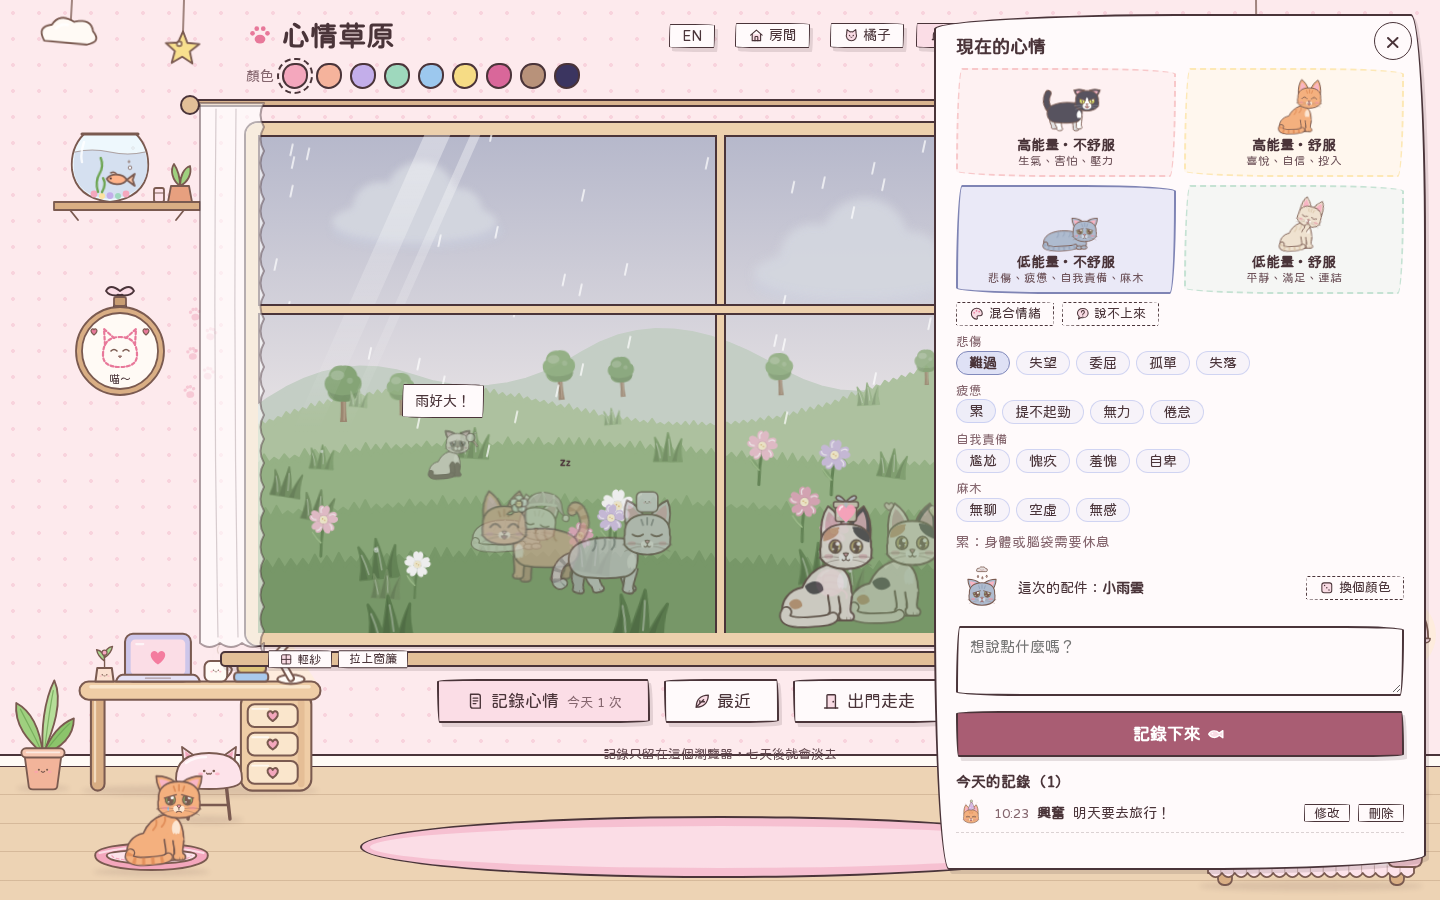
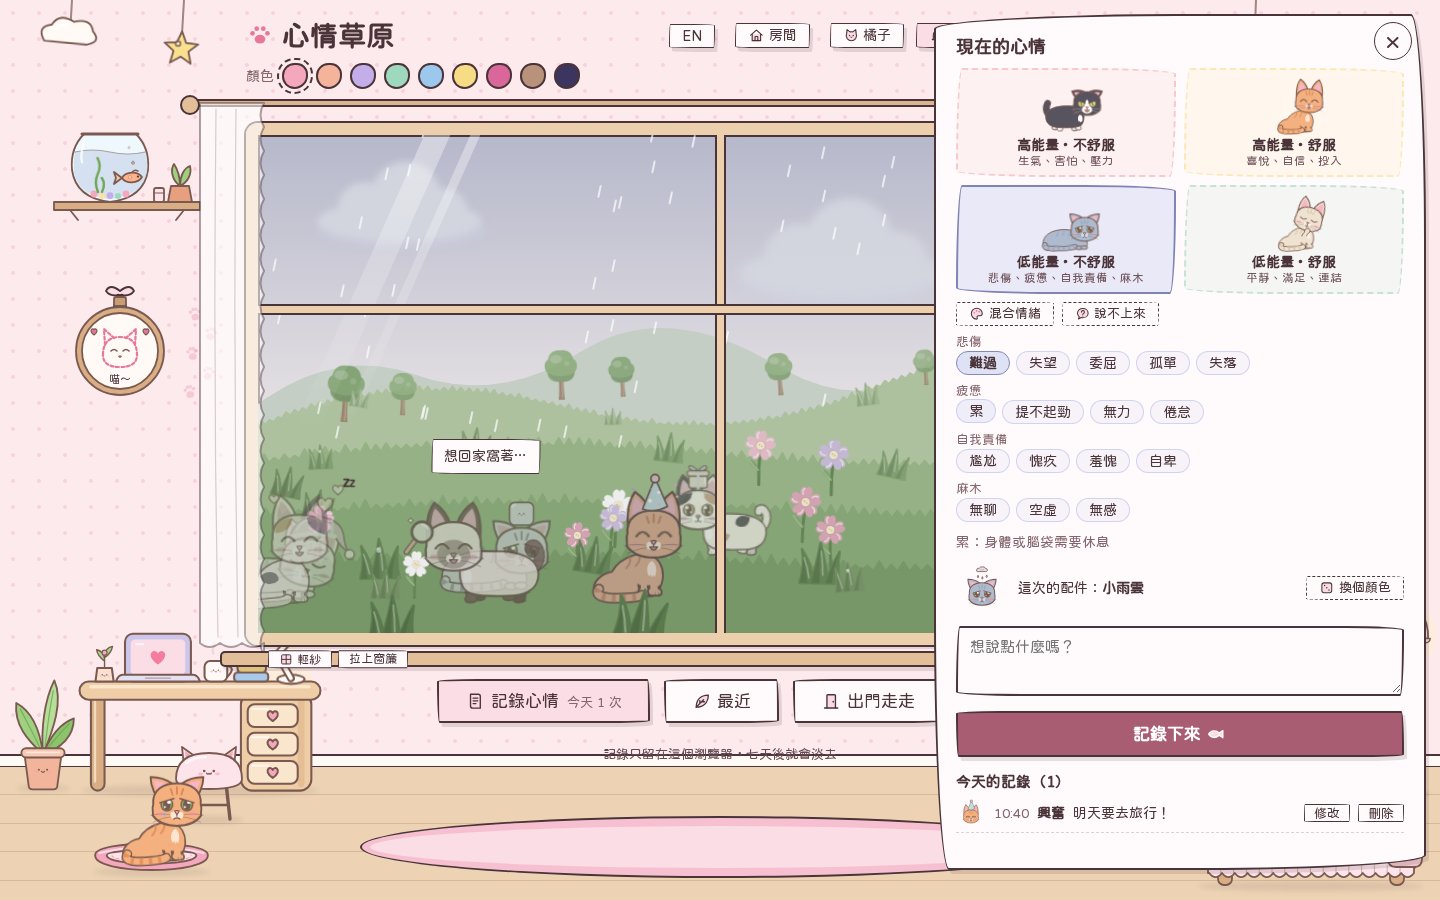
style: change to kitten

diff --git a/index.html b/index.html
@@ -327,12 +327,13 @@
   .cat.walk .leg.b { animation-delay: calc(var(--step, .36s) * -1); }
   .cat.walk .hopper-inner { animation: bob var(--step, .36s) ease-in-out infinite alternate; }
   /* 0%：腳在前面踩地 → 55%：推到後面 → 抬起來往前跨 */
+  /* 短短的腳：擺動小一點、抬腳低一點 */
   @keyframes step {
-    0% { transform: rotate(-15deg); }
-    55% { transform: rotate(15deg); }
-    72% { transform: rotate(3deg) translateY(-3px); }
-    88% { transform: rotate(-12deg) translateY(-2px); }
-    100% { transform: rotate(-15deg); }
+    0% { transform: rotate(-11deg); }
+    55% { transform: rotate(11deg); }
+    72% { transform: rotate(2deg) translateY(-2px); }
+    88% { transform: rotate(-9deg) translateY(-1.4px); }
+    100% { transform: rotate(-11deg); }
   }
   @keyframes bob { to { transform: translateY(-1.5px); } }
   .cat .eyes { transform-box: fill-box; transform-origin: center; animation: blink 5s infinite; }
@@ -355,8 +356,8 @@
   .cat.loaf .p-loaf, .cat.sleep .p-loaf, .cat.roll .p-loaf { opacity: 1; }
   .cat .head { transition: transform .35s; transform-origin: 100px 42px; }
   .cat.sit .head { transform: translate(-10px, -6px); }
-  .cat.loaf .head, .cat.roll .head { transform: translate(-4px, 22px); }
-  .cat.sleep .head { transform: translate(-4px, 25px) rotate(10deg); }
+  .cat.loaf .head, .cat.roll .head { transform: translate(-4px, 14px); }
+  .cat.sleep .head { transform: translate(-4px, 18px) rotate(10deg); }
   .cat.groom .head { animation: lick .45s ease-in-out infinite alternate; }
   @keyframes lick { from { transform: translate(-9px, -3px) rotate(15deg); } to { transform: translate(-9px, -1px) rotate(21deg); } }
   .cat.groom .lick-paw { display: inline; animation: paw .45s ease-in-out infinite alternate; }
@@ -1548,12 +1549,14 @@ const FAMILY_COAT = { joy: "happy", confidence: "goldie", engagement: "siamese",
   sadness: "sad", exhaustion: "tired", self_conscious: "graywhite", numbness: "silver", anger: "angry", fear: "tortie", stress: "brown", unsure: "black" };
 
 // 頭的位置（各個姿勢）：x, y 位移與旋轉角度（以頭中心 100,42 為軸）
+// 胖胖版的頭：以下巴 (100, 58) 為中心放大 1.16 倍，再往下 7
+const CHUB_HEAD = "translate(0 7) translate(100 58) scale(1.16) translate(-100 -58)";
 const HEAD_POSE = {
   stand: { x: 0, y: 0, r: 0 },
   sit:   { x: -10, y: -6, r: 0 },
   groom: { x: -9, y: -3, r: 18 },
-  loaf:  { x: -4, y: 22, r: 0 },
-  sleep: { x: -4, y: 25, r: 10 },
+  loaf:  { x: -4, y: 14, r: 0 },
+  sleep: { x: -4, y: 18, r: 10 },
 };
 // 耳朵：難過會垂下、生氣會壓平（飛機耳）
 const EARS = { happy: [0, 0], calm: [0, 0], tired: [12, 1], sad: [36, 5], angry: [52, 7], anxious: [16, 1] };
@@ -1656,40 +1659,35 @@ function tail(d, m, puff) {
 // 胸前的一撮蓬毛
 const fluff = (x, y, color) => `<path d="M${x} ${y} C${x - 4.5} ${y + 2} ${x - 5} ${y + 9} ${x - 2.5} ${y + 13} L${x - 1} ${y + 11.5} L${x} ${y + 14} L${x + 1.2} ${y + 11.8} L${x + 2.5} ${y + 13.5} C${x + 4.5} ${y + 9} ${x + 4} ${y + 2} ${x} ${y}Z" fill="${color}" stroke="none"/>`;
 
+// 胖胖短腳：身體圓一點、放低一點，腿短短的
 function poseArt(mood, pose, coat = mood) {
   const m = coatOf(coat), tailType = MOODS[mood].tail;
-  const legC = m.point || m.paw || m.fur;
-  const far = shade(legC);
-  const near = legC;
-  const puff = tailType === "puff";
+  const legC = m.point || m.paw || m.fur, far = shade(legC), near = legC, puff = tailType === "puff";
   const stripes = d => m.stripe !== m.fur ? `<path d="${d}" stroke="${m.stripe}" stroke-width="2" fill="none" opacity=".85"/>` : "";
   if (pose === "stand") {
-    const tailD = { up: "M39 58 C27 54 22 43 25 32 C26.5 26 32 24.5 33 30", low: "M38 61 C29 65 26 74 28.5 83 C29.5 87 33 88 34.5 85",
-                    puff: "M39 58 C29 51 27 41 29.5 31" }[tailType];
-    return `<g class="tail" style="transform-origin:39px 59px">${tail(tailD, m, puff)}</g>
-      ${paw(45, 67, far, "leg b", "back")}${paw(80, 68, far, "leg a")}
-      ${paw(53, 68, near, "leg a", "back")}${paw(86.5, 70, near, "leg b")}
-      <path d="M92 60 C92 50 85 45 75 45 C64 44 54 45 46 48 C36 51 32 59 34 67 C36 75 43 78.5 52 78.5 C62 79.5 72 79.5 82 77.5 C90 75.5 92 68 92 60Z" fill="${m.fur}"/>
-      ${m.patches ? `<path d="M50 48 C57 45.5 64 47.5 63 55 C57 60 50 58 50 48Z" fill="${m.patches[1]}" stroke="none"/><path d="M68 64 C75 61 81 66 78.5 72 C73 74 69 70 68 64Z" fill="${m.patches[0]}" stroke="none"/>` : ""}
-      ${stripes("M56 46.5 C57 50.5 56 53.5 54 55.5 M64 45.5 C65 49.5 64 52.5 62 54.5 M72 45.5 C73 49.5 72 52.5 70 54.5")}
-      ${fluff(87, 58, m.chest)}`;
+    const tailD = { up: "M37 66 C29 63 26 55 28.5 48.5 C30 45 34 45 34.5 48.5", low: "M36 70 C29 73 27.5 80 29.5 86 C30.5 89 33.5 89.6 35 87", puff: "M37 66 C30 61 28.5 54 30.5 47" }[tailType];
+    return `<g class="tail" style="transform-origin:37px 67px">${tail(tailD, m, puff)}</g>
+      ${paw(46, 80, far, "leg b", "back")}${paw(78, 80, far, "leg a")}
+      ${paw(54, 81, near, "leg a", "back")}${paw(85, 81.5, near, "leg b")}
+      <path d="M95 67 C95 55 87 50.5 75 50.5 C62 50 50 50.5 42 54.5 C32 59 30 67 32 74 C34 82 43 86.5 56 86.6 C66 87 77 87 85 85 C93 83 95 76 95 67Z" fill="${m.fur}"/>
+      ${m.patches ? `<path d="M48 54 C56 51 63 53 62 61 C56 66 48 64 48 54Z" fill="${m.patches[1]}" stroke="none"/><path d="M68 71 C75 68 82 73 79.5 79 C74 81 69 77 68 71Z" fill="${m.patches[0]}" stroke="none"/>` : ""}
+      ${stripes("M55 52 C56 56 55 59 53 61 M63 51 C64 55 63 58 61 60 M71 51 C72 55 71 58 69 60")}
+      ${fluff(89, 64, m.chest)}`;
   }
   if (pose === "sit") {
-    return `<path d="M87 92 C94 86 96.5 72 92.5 60 C89.5 52 82 48 75 50 C66 53 60 60 57 67 C47 69 41 77 42 85 C43 91 50 93 58 92 Z" fill="${m.fur}"/>
-      ${m.patches ? `<path d="M59 66 C65 60 73 62 73 69 C68 74 61 73 59 66Z" fill="${m.patches[1]}" stroke="none"/><path d="M47 79 C50 74 57 75 57 81 C53 85 48 84 47 79Z" fill="${m.patches[0]}" stroke="none"/>` : ""}
-      ${stripes("M69 55 C70 59 68 62 66 64 M77 52 C78 56 76 59 74 61")}
-      ${sitPaw(81.5, 66, near)}
-      ${fluff(87.5, 55, m.chest)}
-      <g class="stay-paw">${sitPaw(89.5, 67, near)}</g>
-      <g class="tail" style="transform-origin:45px 86px">${tail("M45 85.5 C40 93 52 94.6 66 94 C74 93.8 78 93.4 80 91.5", m, puff)}</g>`;
+    return `<path d="M89 92.5 C98 87 100 73 95 64.5 C91 58 83 55.5 75 57.5 C65 60.5 58 66 55 72 C45 74 39 81 40 87 C41 92 48 93.6 58 93 Z" fill="${m.fur}"/>
+      ${m.patches ? `<path d="M58 71 C64 65 73 67 73 74 C68 79 60 78 58 71Z" fill="${m.patches[1]}" stroke="none"/><path d="M46 82 C49 77 56 78 56 84 C52 88 47 87 46 82Z" fill="${m.patches[0]}" stroke="none"/>` : ""}
+      ${stripes("M70 60 C71 64 69 67 67 69 M78 58 C79 62 77 65 75 67")}
+      ${sitPaw(82, 76, near)}
+      ${fluff(88.5, 63, m.chest)}
+      <g class="stay-paw">${sitPaw(90, 77, near)}</g>
+      <g class="tail" style="transform-origin:44px 87px">${tail("M44 86.5 C39 93.4 52 94.8 66 94.2 C74 94 78 93.6 80 92", m, puff)}</g>`;
   }
-  // 趴著（母雞蹲、睡覺）
-  return `<path d="M28 85 C26 72 40 63 62 63 C82 63 98 70 99 83 C99.5 89 95 92.5 88 92.5 L38 92.5 C31 92.5 28 90 28 85Z" fill="${m.fur}"/>
-    ${m.patches ? `<path d="M44 67 C52 63 60 66 57 74 C51 77 45 74 44 67Z" fill="${m.patches[1]}" stroke="none"/><path d="M70 68 C78 66 85 71 81 78 C75 79 71 75 70 68Z" fill="${m.patches[0]}" stroke="none"/>` : ""}
-    ${stripes("M52 65 C53 69 52 72 50 74 M62 63.5 C63 67 62 70 60 72 M72 64.5 C73 68 72 71 70 73")}
-    <g class="tail" style="transform-origin:31px 86px">${tail("M31 85.5 C26 93 46 94.6 64 94.4 C72 94.2 77 93.8 80 92.5", m, puff)}</g>
-    <ellipse cx="87" cy="91" rx="5.2" ry="3" fill="${near}"/><ellipse cx="95" cy="90.6" rx="5.2" ry="3" fill="${near}"/>
-    <path d="M89 93.4 L89 91.6 M97 93 L97 91.2" stroke-width=".9" opacity=".55"/>`;
+  return `<path d="M27 86 C25 71 41 61 62 61 C84 61 100 70 100.5 84 C101 90 96.5 93 88 93 L37 93 C30 93 27 91 27 86Z" fill="${m.fur}"/>
+    ${m.patches ? `<path d="M43 66 C51 62 59 65 56 73 C50 76 44 73 43 66Z" fill="${m.patches[1]}" stroke="none"/><path d="M70 67 C78 65 85 70 81 77 C75 78 71 74 70 67Z" fill="${m.patches[0]}" stroke="none"/>` : ""}
+    ${stripes("M51 63.5 C52 67.5 51 70.5 49 72.5 M61 62 C62 65.5 61 68.5 59 70.5 M71 62.5 C72 66 71 69 69 71")}
+    <g class="tail" style="transform-origin:30px 87px">${tail("M30 86.5 C25 93.4 46 94.8 64 94.6 C72 94.4 77 94 80 92.8", m, puff)}</g>
+    <ellipse cx="87" cy="91.4" rx="5.6" ry="3" fill="${near}"/><ellipse cx="95.4" cy="91" rx="5.6" ry="3" fill="${near}"/>`;
 }
 
 // 理毛時舉起來舔的前腳（畫在頭前面）
@@ -1697,9 +1695,9 @@ function lickPaw(color) {
   // 填色往下延伸到胸口裡，外框只畫上半段，看起來像從胸前舉起來
   const fill = "M77.8 72 C77.8 66 79.5 61.5 82.8 58.2 C82.6 55 84.8 52.2 87.8 52 C91 51.8 93 54.4 92 57.4 C91.2 59.4 89.4 60.4 87.8 61.6 C86 64 85.8 68 86.2 72 Z";
   const line = "M78.3 64.5 C79 62 80.6 59.8 82.8 58.2 C82.6 55 84.8 52.2 87.8 52 C91 51.8 93 54.4 92 57.4 C91.2 59.4 89.4 60.4 87.8 61.6 C87 62.6 86.5 63.6 86.3 64.5";
-  return `<g class="lick-paw" style="transform-origin:82px 70px">
+  return `<g class="lick-paw" style="transform-origin:82px 77px"><g transform="translate(0 7)">
     <path d="${fill}" fill="${color}" stroke="none"/><path d="${line}" fill="none"/>
-    <path d="M89.2 52.2 L88.8 54.2" stroke-width=".9" opacity=".5"/></g>`;
+    <path d="M89.2 52.2 L88.8 54.2" stroke-width=".9" opacity=".5"/></g></g>`;
 }
 
 function shade(hex) {
@@ -1719,7 +1717,7 @@ function bodySVGRaw(mood, pose, coat = mood, acc = null) {
   const headAttr = pose ? `transform="translate(${hp.x} ${hp.y}) rotate(${hp.r} 100 42)"` : "";
   return `${svgOpen("0 0 130 100")}<g ${ATTRS}>
     <g class="hopper-inner">${poses.map(p => `<g class="pose p-${p}">${poseArt(mood, p, coat)}</g>`).join("")}
-    <g class="head" ${headAttr}>${headArt(mood, coat, acc)}</g>
+    <g class="head" ${headAttr}><g transform="${CHUB_HEAD}">${headArt(mood, coat, acc)}</g></g>
     ${poses.includes("sit") ? lickPaw(coatOf(coat).point || coatOf(coat).paw || coatOf(coat).fur) : ""}</g></g></svg>`;
 }
 // 小圖示：只有頭
@@ -2856,7 +2854,7 @@ function tick(now) {
   if (chatTimer <= 0) { chatTimer = 5 + Math.random() * 6; chatter(); }
 
   for (const c of cats) {
-    const speed = c.speed * MS * scaleOf(c.y), p = c.partner;   // 越遠看起來走得越慢
+    const speed = c.speed * .75 * MS * scaleOf(c.y), p = c.partner;   // 越遠看起來走得越慢；短腳的胖貓整體慢一點
     c.timer -= dt;
     if (c.mode === "pace" || c.mode === "hide" || c.mode === "edge") {
       if (stepTo(c, c.tx, c.ty, c.mode === "pace" ? speed * 1.25 : speed, dt)) arriveSpecial(c);
